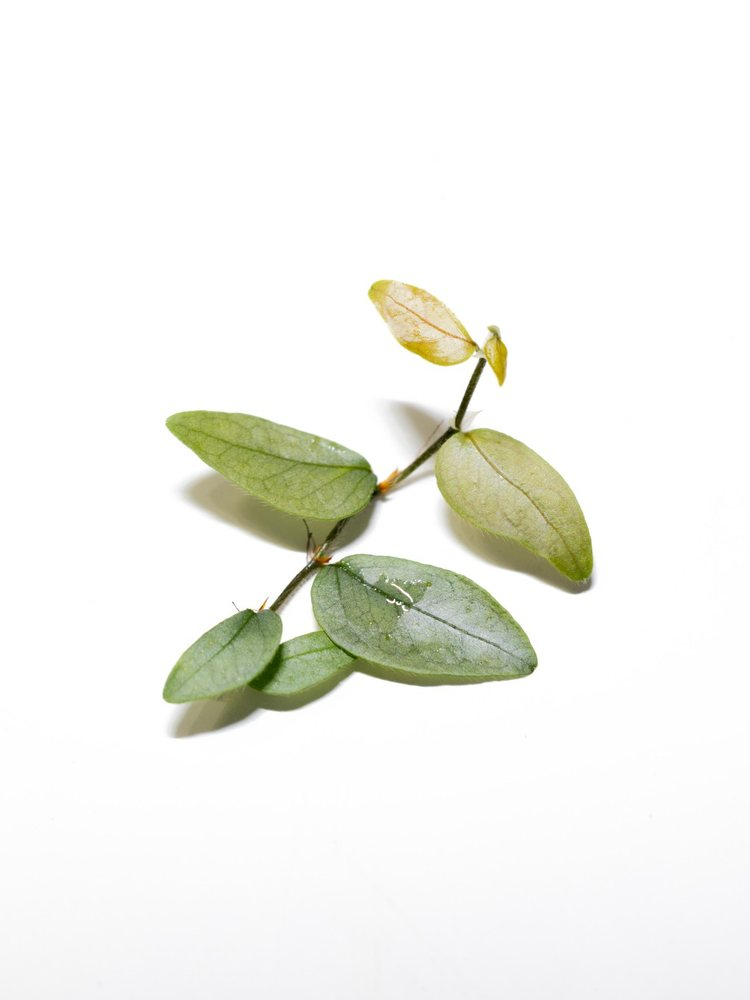
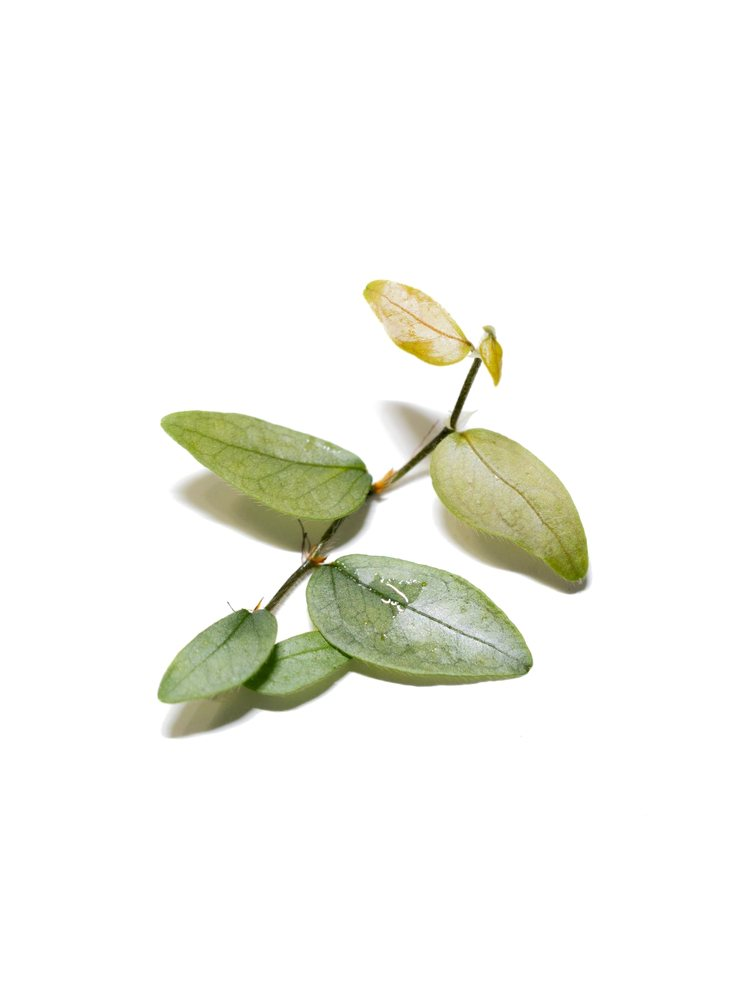
Unify product photo backgrounds and bottom fade
- tools/prepare_product_photo.py (PC repo) evens out each photo's white
  background to the same pure white (removes corner/top/bottom shading
  and color casts), then crops 3:4 around the plant at 750x1000
- Re-processed both Ficus photos with it; the same CSS bottom fade now
  applies to every product photo (the per-photo exception is gone) and
  to search thumbnails

Claude-Session: https://claude.ai/code/session_01RTzuFWkWY9WEpCoxYCoC66

Changed region(s): [[0.2147, 0.279, 0.7973, 0.744], [0.2147, 0.651, 0.2453, 0.744]]

diff --git a/assets/css/style.css b/assets/css/style.css
@@ -137,12 +137,11 @@ button, input, select { font: inherit; color: inherit; }
 .card { position: relative; }
 .card__link { display: block; }
 .card__img { position: relative; display: block; aspect-ratio: 3 / 4; overflow: hidden; background: #f4f4f2; }
-/* 사진 아래쪽 옅은 그라데이션 — 무룽 라야 사진의 자연스러운 그늘과 같은 정도(아래 70%부터 약 5.5%) */
+/* 모든 상품 사진 아래쪽에 같은 옅은 그라데이션 (아래 70%부터 약 5.5%) — 사진 배경은 도구로 순백 통일 */
 .card__img::after {
   content: ""; position: absolute; inset: 0; pointer-events: none;
   background: linear-gradient(to bottom, rgba(23, 23, 23, 0) 68%, rgba(23, 23, 23, .055) 100%);
 }
-.card.no-shade .card__img::after { display: none; }
 
 .card__img img { width: 100%; height: 100%; object-fit: cover; transition: transform .8s var(--ease); }
 .card__link:hover .card__img img { transform: scale(1.03); }
@@ -185,7 +184,8 @@ button, input, select { font: inherit; color: inherit; }
 .search__msg { max-width: 760px; margin: 18px auto 0; min-height: 1.6em; font-size: 14px; color: var(--muted); }
 .search__results { max-width: 760px; max-height: calc(100vh - 360px); margin: 6px auto 0; padding: 0; overflow-y: auto; list-style: none; }
 .hit { display: grid; grid-template-columns: 54px 1fr auto; gap: 18px; align-items: center; padding: 12px 0; border-bottom: 1px solid var(--line); }
-.hit__img { display: block; aspect-ratio: 3 / 4; overflow: hidden; background: #f4f4f2; }
+.hit__img { position: relative; display: block; aspect-ratio: 3 / 4; overflow: hidden; background: #f4f4f2; }
+.hit__img::after { content: ""; position: absolute; inset: 0; pointer-events: none; background: linear-gradient(to bottom, rgba(23, 23, 23, 0) 68%, rgba(23, 23, 23, .055) 100%); }
 .hit__img img { width: 100%; height: 100%; object-fit: cover; }
 .hit__name { display: block; font-size: 15px; line-height: 1.5; }
 .hit__sci { display: block; font-size: 13px; color: var(--muted); }

diff --git a/plant/index.html b/plant/index.html
@@ -55,11 +55,11 @@
   <link rel="preconnect" href="https://fonts.googleapis.com">
   <link rel="preconnect" href="https://fonts.gstatic.com" crossorigin>
   <link rel="stylesheet" href="https://fonts.googleapis.com/css2?family=Figtree:ital,wght@0,300;0,700;0,800;1,300;1,700&family=Noto+Sans+KR:wght@300;700&family=Noto+Sans+JP:wght@300;700&display=swap">
-  <link rel="stylesheet" href="/assets/css/style.css?v=20261118n">
+  <link rel="stylesheet" href="/assets/css/style.css?v=20261118o">
 </head>
 <body class="page-sub">
   <!-- 상단 바 · PLANT 메뉴 (공통: assets/js/layout.js) -->
-  <script src="/assets/js/layout.js?v=20261118n"></script>
+  <script src="/assets/js/layout.js?v=20261118o"></script>
   <script>PM_LAYOUT.top()</script>
 
   <!-- ───────── PLANT 목록 ─────────
@@ -80,9 +80,9 @@
   <!-- 하단 · 검색 · 언어 창 (공통: assets/js/layout.js) -->
   <script>PM_LAYOUT.bottom()</script>
 
-  <script src="/assets/js/i18n.js?v=20261118n" defer></script>
-  <script src="/assets/js/main.js?v=20261118n" defer></script>
-  <script src="/assets/js/products.js?v=20261118n" defer></script>
-  <script src="/assets/js/plant.js?v=20261118n" defer></script>
+  <script src="/assets/js/i18n.js?v=20261118o" defer></script>
+  <script src="/assets/js/main.js?v=20261118o" defer></script>
+  <script src="/assets/js/products.js?v=20261118o" defer></script>
+  <script src="/assets/js/plant.js?v=20261118o" defer></script>
 </body>
 </html>

diff --git a/assets/js/products.js b/assets/js/products.js
@@ -7,8 +7,8 @@
    sci      : 학명 [이탤릭으로 쓸 부분, 나머지]   예) ['Ficus', 'sp. ‘Murung Raya’']
    price    : 원 단위 숫자 (예: 32000). 아직 정하지 않았으면 null → '가격 문의'로 표시
    status   : 'available'(판매 중) | 'soldout'(품절)
-   image    : 세로 3:4 사진 (assets/img/products/ 에 올린 파일)
-   shade    : 사진 아래쪽에 옅은 그라데이션을 자동으로 넣습니다. 사진 자체에 이미 그늘이 있으면 false
+   image    : 세로 3:4 사진 — PC 저장소의 tools/prepare_product_photo.py 로 만든 파일
+              (흰 배경을 같은 순백으로 고르고 3:4로 자름. 아래쪽 그라데이션은 사이트가 똑같이 넣음)
  */
 window.PM_PRODUCTS = [
   {
@@ -18,8 +18,7 @@ window.PM_PRODUCTS = [
     sci: ['Ficus', 'sp. ‘Murung Raya’'],
     price: 22000,
     status: 'available',
-    image: '/assets/img/products/ficus-murung-raya.jpg',
-    shade: false                   /* 사진에 이미 아래쪽 그늘이 있음 */
+    image: '/assets/img/products/ficus-murung-raya.jpg?v=2'
   },
   {
     id: 'ficus-punctata',
@@ -28,6 +27,6 @@ window.PM_PRODUCTS = [
     sci: ['Ficus punctata', ''],
     price: 60000,
     status: 'available',
-    image: '/assets/img/products/ficus-punctata.jpg'
+    image: '/assets/img/products/ficus-punctata.jpg?v=2'
   }
 ];

diff --git a/index.html b/index.html
@@ -55,11 +55,11 @@
   <link rel="preconnect" href="https://fonts.googleapis.com">
   <link rel="preconnect" href="https://fonts.gstatic.com" crossorigin>
   <link rel="stylesheet" href="https://fonts.googleapis.com/css2?family=Figtree:ital,wght@0,300;0,700;0,800;1,300;1,700&family=Noto+Sans+KR:wght@300;700&family=Noto+Sans+JP:wght@300;700&display=swap">
-  <link rel="stylesheet" href="/assets/css/style.css?v=20261118n">
+  <link rel="stylesheet" href="/assets/css/style.css?v=20261118o">
 </head>
 <body>
   <!-- 상단 바 · PLANT 메뉴 (공통: assets/js/layout.js) -->
-  <script src="/assets/js/layout.js?v=20261118n"></script>
+  <script src="/assets/js/layout.js?v=20261118o"></script>
   <script>PM_LAYOUT.top()</script>
 
   <!-- ───────── 홈 ───────── -->
@@ -101,8 +101,8 @@
   <script>PM_LAYOUT.bottom()</script>
 
 
-  <script src="/assets/js/i18n.js?v=20261118n" defer></script>
-  <script src="/assets/js/products.js?v=20261118n" defer></script>
-  <script src="/assets/js/main.js?v=20261118n" defer></script>
+  <script src="/assets/js/i18n.js?v=20261118o" defer></script>
+  <script src="/assets/js/products.js?v=20261118o" defer></script>
+  <script src="/assets/js/main.js?v=20261118o" defer></script>
 </body>
 </html>

diff --git a/assets/js/plant.js b/assets/js/plant.js
@@ -35,7 +35,7 @@
     const name = (p.name && (p.name[lang] || p.name.ko)) || p.id;
     const sold = p.status === 'soldout';
     const [italic = '', rest = ''] = p.sci || [];
-    return `<li class="card${sold ? ' is-soldout' : ''}${p.shade === false ? ' no-shade' : ''}" id="p-${esc(p.id)}">
+    return `<li class="card${sold ? ' is-soldout' : ''}" id="p-${esc(p.id)}">
       <a class="card__link" href="#" data-soon="${esc(name)}">
         <span class="card__img"><img src="${esc(p.image)}" alt="${esc(name)}" width="750" height="1000" loading="lazy"></span>
         ${sold ? `<span class="card__badge">${esc(t('soldOut'))}</span>` : ''}

diff --git a/tools/prepare_product_photo.py b/tools/prepare_product_photo.py
@@ -1,0 +1,115 @@
+#!/usr/bin/env python3
+"""PLANT MATTER — 상품 사진 준비 도구
+
+사진마다 다른 흰 배경의 밝기·색감(구석 그늘, 위아래 그늘, 누런/푸른 기)을
+같은 순백(#ffffff)으로 고르게 맞춘 뒤, 식물이 가운데 오도록 세로 3:4로 잘라
+750×1000 JPG로 저장합니다. 아래쪽 그라데이션은 사이트(CSS)가 모든 사진에 똑같이 넣습니다.
+
+사용법:
+    python3 tools/prepare_product_photo.py 원본.jpg assets/img/products/식물이름.jpg
+    (선택) --fx 0.45  : 가로 위치를 직접 지정 (0=왼쪽 … 1=오른쪽, 기본은 식물 위치 자동)
+
+필요한 것: Python 3, Pillow, NumPy  (pip install pillow numpy)
+"""
+import argparse
+import warnings
+import numpy as np
+from PIL import Image
+
+GRID = 32          # 배경 밝기를 재는 칸 수 (세로 기준)
+KNEE = (238, 248)  # 이 사이 밝기는 순백 쪽으로 부드럽게 올림, 248 이상은 순백 (식물 색인 238 미만은 그대로)
+OUT_W, OUT_H = 750, 1000
+
+
+def _fill_missing(grid):
+    """배경이 거의 없는 칸(식물·흙)은 주변 칸 값으로 채움."""
+    g = grid.copy()
+    for _ in range(200):
+        nan = np.isnan(g[..., 0])
+        if not nan.any():
+            break
+        padded = np.pad(g, ((1, 1), (1, 1), (0, 0)), constant_values=np.nan)
+        neigh = np.stack([padded[1 + dy:1 + dy + g.shape[0], 1 + dx:1 + dx + g.shape[1]]
+                          for dy in (-1, 0, 1) for dx in (-1, 0, 1) if dy or dx])
+        with warnings.catch_warnings():
+            warnings.simplefilter('ignore', RuntimeWarning)   # 주변이 전부 비어 있는 칸은 다음 차례에 채움
+            mean = np.nanmean(neigh, axis=0)
+        g[nan] = mean[nan]
+    return g
+
+
+def _blur(grid, passes=3):
+    g = grid
+    for _ in range(passes):
+        p = np.pad(g, ((1, 1), (1, 1), (0, 0)), mode='edge')
+        g = sum(p[1 + dy:1 + dy + g.shape[0], 1 + dx:1 + dx + g.shape[1]]
+                for dy in (-1, 0, 1) for dx in (-1, 0, 1)) / 9.0
+    return g
+
+
+def flatten_background(img):
+    a = np.asarray(img).astype(np.float32)
+    H, W, _ = a.shape
+    lum = a.mean(axis=2)
+    chroma = a.max(axis=2) - a.min(axis=2)
+    bg = (lum > 185) & (chroma < 28)                     # 밝고 색이 거의 없는 곳 = 배경
+    gh = GRID
+    gw = max(1, round(GRID * W / H))
+    grid = np.full((gh, gw, 3), np.nan, np.float32)
+    for i in range(gh):
+        for j in range(gw):
+            ys = slice(i * H // gh, (i + 1) * H // gh)
+            xs = slice(j * W // gw, (j + 1) * W // gw)
+            m = bg[ys, xs]
+            if m.mean() > 0.3:
+                grid[i, j] = np.percentile(a[ys, xs][m], 85, axis=0)
+    if np.isnan(grid).all():
+        return img
+    grid = _blur(_fill_missing(grid), passes=2)
+    field = np.stack([np.asarray(Image.fromarray(grid[..., c]).resize((W, H), Image.BILINEAR))
+                      for c in range(3)], axis=2)
+    gain = np.clip(255.0 / np.maximum(field, 1), 1.0, 1.6)   # 어둡게는 하지 않음
+    out = np.clip(a * gain, 0, 255)
+    lo, hi = KNEE                                         # 남은 얼룩·질감을 순백으로 정리
+    knee = (out > lo) & (out < 255)
+    out[knee] = np.minimum(255, lo + (out[knee] - lo) * (255 - lo) / (hi - lo))
+    return Image.fromarray(out.astype(np.uint8))
+
+
+def crop_3x4(img, fx=None):
+    W, H = img.size
+    a = np.asarray(img.convert('L'))
+    ys, xs = np.where(a < 200)
+    if fx is None:
+        if len(xs):
+            x1, x2 = np.percentile(xs, [0.5, 99.5])           # 작은 티끌은 무시
+            cx = (x1 + x2) / 2
+        else:
+            cx = W / 2
+    else:
+        cx = fx * W
+    if W / H > 0.75:
+        cw = int(H * 0.75)
+        x0 = int(min(max(cx - cw / 2, 0), W - cw))
+        img = img.crop((x0, 0, x0 + cw, H))
+    else:
+        ch = int(W / 0.75)
+        y0 = (H - ch) // 2
+        img = img.crop((0, y0, W, y0 + ch))
+    return img.resize((OUT_W, OUT_H), Image.LANCZOS)
+
+
+def main():
+    ap = argparse.ArgumentParser(description=__doc__, formatter_class=argparse.RawDescriptionHelpFormatter)
+    ap.add_argument('src')
+    ap.add_argument('dst')
+    ap.add_argument('--fx', type=float, default=None)
+    args = ap.parse_args()
+    img = Image.open(args.src).convert('RGB')
+    out = crop_3x4(flatten_background(img), args.fx)
+    out.save(args.dst, quality=84, optimize=True, progressive=True)
+    print(f'saved {args.dst} ({out.size[0]}x{out.size[1]})')
+
+
+if __name__ == '__main__':
+    main()

diff --git a/README.md b/README.md
@@ -46,7 +46,11 @@
 
 ### 식물 등록하기
 
-1. 세로 3:4 사진을 `assets/img/products/`에 올립니다 (예: `new-plant.jpg`, 가로 750px 이상 권장).
+1. 사진을 도구로 정리합니다 — 흰 배경의 밝기·색감을 모든 사진이 같은 순백이 되도록 맞추고, 식물이 가운데 오게 세로 3:4(750×1000)로 자릅니다.
+   ```bash
+   python3 tools/prepare_product_photo.py 원본사진.jpg assets/img/products/new-plant.jpg
+   ```
+   (Python과 `pip install pillow numpy` 필요. 아래쪽 그라데이션은 사이트가 모든 사진에 똑같이 넣으므로 사진에는 넣지 않습니다.)
 2. `assets/js/products.js`에 한 묶음을 추가합니다 — 분류, 이름(한·영·일), 학명, 가격(원, 미정이면 `null` → "가격 문의"), 판매 상태(`available` / `soldout`), 사진 경로.
 3. PC·모바일 두 저장소에 똑같이 올립니다.
 - 지금 등록된 식물: 피커스 sp. ‘무룽 라야’ (₩22,000), 피커스 푼타타 Ficus punctata (₩60,000)
